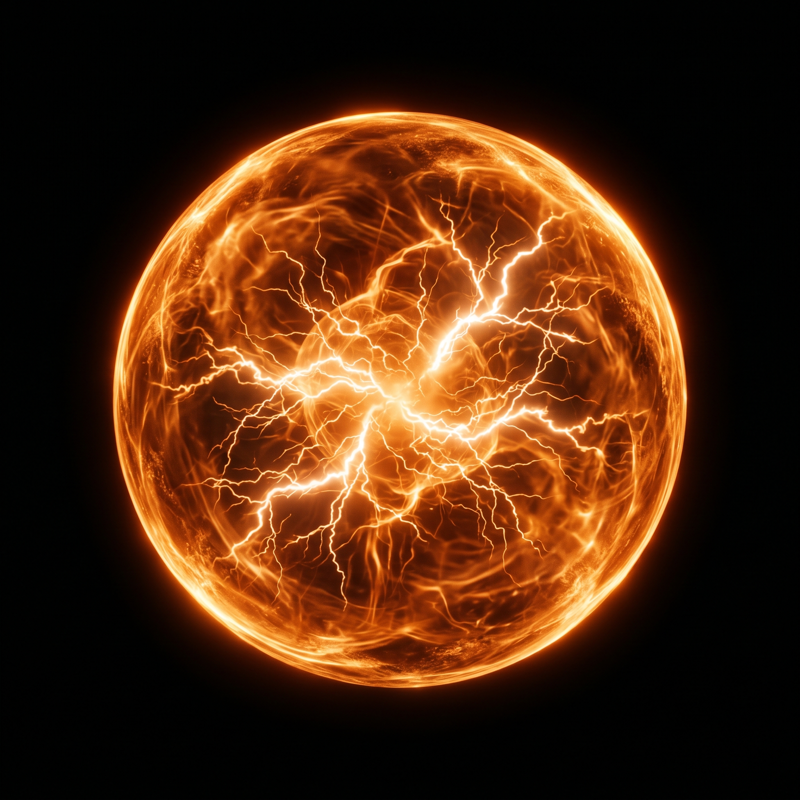
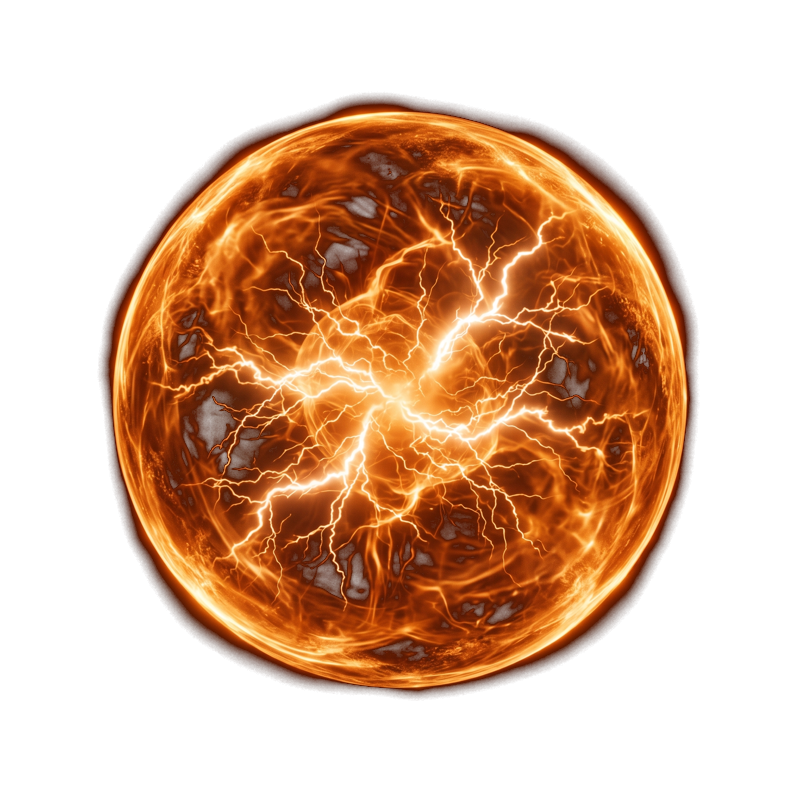
fix(hero): esferas PNG transparentes reales (adios caja negra del mix-blend que no corria en iOS/WhatsApp) + quitar seguimiento de cursor que crasheaba el navegador movil. Hero estable y esfera flotando limpia

diff --git a/components/marketing/Hero.tsx b/components/marketing/Hero.tsx
@@ -1,7 +1,7 @@
 "use client";
 
-import { useState, useRef, useEffect } from "react";
-import { motion, AnimatePresence, useMotionValue, useSpring } from "framer-motion";
+import { useState } from "react";
+import { motion, AnimatePresence } from "framer-motion";
 import Link from "next/link";
 import {
   ArrowRight, Sparkles, X, Rocket, HelpCircle,
@@ -48,33 +48,9 @@ export function Hero() {
   const [open, setOpen] = useState(false);
   const [panel, setPanel] = useState<"welcome" | "faq" | null>(null);
 
-  // El orbe sigue el cursor/toque suavemente
-  const mx = useMotionValue(0);
-  const my = useMotionValue(0);
-  const sx = useSpring(mx, { stiffness: 60, damping: 18 });
-  const sy = useSpring(my, { stiffness: 60, damping: 18 });
-
-  const heroRef = useRef<HTMLDivElement>(null);
-
-  useEffect(() => {
-    const el = heroRef.current;
-    if (!el) return;
-    const onMove = (e: PointerEvent) => {
-      // Solo seguir el cursor con MOUSE real (desktop). En touch dejamos el dedo libre para scrollear.
-      if (e.pointerType !== "mouse") return;
-      const r = el.getBoundingClientRect();
-      const cx = r.left + r.width / 2;
-      const cy = r.top + r.height * 0.36;
-      mx.set(Math.max(-30, Math.min(30, (e.clientX - cx) / 12)));
-      my.set(Math.max(-24, Math.min(24, (e.clientY - cy) / 12)));
-    };
-    el.addEventListener("pointermove", onMove, { passive: true });
-    return () => el.removeEventListener("pointermove", onMove);
-  }, [mx, my]);
 
   return (
     <section
-      ref={heroRef}
       className="relative isolate flex min-h-[100svh] flex-col items-center justify-center overflow-hidden px-5 pb-20 pt-24"
       style={{ touchAction: "pan-y" }}
     >
@@ -94,7 +70,6 @@ export function Hero() {
         initial={{ opacity: 0, scale: 0.85 }}
         animate={{ opacity: 1, scale: 1 }}
         transition={{ duration: 1.2, ease: EASE }}
-        style={{ x: sx, y: sy }}
         className="relative z-10 mb-6 flex items-center justify-center"
       >
         {/* Glow latente detrás */}
@@ -129,7 +104,7 @@ export function Hero() {
             animate={{ scale: [1, 1.04, 1] }}
             transition={{ duration: 3.5, repeat: Infinity, ease: "easeInOut" }}
             className="h-full w-full object-contain"
-            style={{ mixBlendMode: "screen", filter: "drop-shadow(0 0 60px rgba(124,58,237,0.6)) drop-shadow(0 0 120px rgba(124,58,237,0.3)) saturate(1.15)" }}
+            style={{ filter: "drop-shadow(0 0 50px rgba(124,58,237,0.55)) drop-shadow(0 0 100px rgba(124,58,237,0.28))" }}
             draggable={false}
           />
           {/* hint de toque */}
